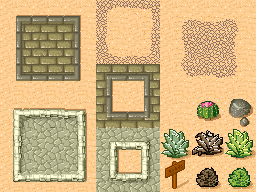
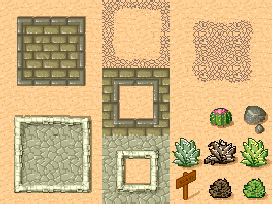
Added tile set expansion to build pipeline, removed antialiasing on tile map

diff --git a/src/app.js b/src/app.js
@@ -33,10 +33,6 @@ var HelloWorldLayer = cc.Layer.extend({
         this.addChild(this.sprite, 0);
         */
         var tileMap = new cc.TMXTiledMap("res/TileGameResources/TileMap.tmx");
-        cc.log(tileMap);
-        for (var i = 0; i < tileMap.getChildren().length; ++i) {
-        	tileMap.getChildren()[i].getTexture().setAntiAliasTexParameters();
-        }
         this.addChild(tileMap,0);
 
         cc.log(tileMap);

diff --git a/build.py b/build.py
@@ -1,5 +1,6 @@
 import re
 import os
+import Image
 
 '''
 Turns a path into a unique variable name
@@ -8,10 +9,40 @@ def PathToVar(path):
 	return '_'.join('_'.join('_'.join(path.split('/')).split('\\')).split('.'))
 
 '''
+Determines if a path is a file that needs preprocessing
+'''
+def IsPreprocessingRequired(path):
+	return re.match(r'.*\.template\..*', path) != None
+
+'''
+Determines if a path is a file that needs tile set expansion
+'''
+def IsTileSetExpansionRequired(path):
+	return re.match(r'.*\.tileset\..*', path) != None
+
+'''
+Determines if a path is an ignored file and should be excluded from resource loading
+'''
+def IsIgnoredFile(path):
+	ignoredFiles = [
+		r'.*loading\.js'
+	]
+	
+	if IsPreprocessingRequired(path) or IsTileSetExpansionRequired(path):
+		return True
+	
+	for pattern in ignoredFiles:
+		if re.match(pattern, path):
+			return True
+	return False
+
+'''
 Makes the environment variables for the preprocessor
 '''
 def GetEnvironmentVariables():
 	env = {}
+	env['preprocess'] = []
+	env['tilesetexpansion'] = []
 	env['resources'] = {}
 	env['sources'] = []
 	
@@ -21,18 +52,28 @@ def GetEnvironmentVariables():
 	
 	for subdir, dirs, files in os.walk(res):
 		for fileName in files:
-			if fileName != 'loading.js':
-				abspath = os.path.relpath(subdir, root) + '/' + fileName
-				if subdir == res:
-					respath = fileName
-				else:
-					respath = os.path.relpath(subdir, res) + '/' + fileName
+			abspath = os.path.relpath(subdir, root) + '/' + fileName
+			if subdir == res:
+				respath = fileName
+			else:
+				respath = os.path.relpath(subdir, res) + '/' + fileName
+			
+			if IsPreprocessingRequired(abspath):
+				env['preprocess'].append(abspath)
+			if IsTileSetExpansionRequired(abspath):
+				env['tilesetexpansion'].append(abspath)
+			if not IsIgnoredFile(abspath):
 				env['resources'][PathToVar(respath)] = abspath
 	
 	for subdir, dirs, files in os.walk(src):
 		for fileName in files:
-			if fileName.find('.template') == -1:
-				env['sources'].append(os.path.relpath(subdir, root) + '/' + fileName)
+			abspath = os.path.relpath(subdir, root) + '/' + fileName
+			if IsPreprocessingRequired(abspath):
+				env['preprocess'].append(abspath)
+			if IsTileSetExpansionRequired(abspath):
+				env['tilesetexpansion'].append(abspath)
+			if not IsIgnoredFile(fileName):
+				env['sources'].append(abspath)
 	
 	return env
 
@@ -75,7 +116,39 @@ def Preprocess(path, env):
 	with open(path.replace('.template', ''), 'w') as output_file:
 		output_file.write(content)
 
+'''
+Expands the tiles in a tile set by 1 pixel on each edge
+'''
+def ExpandTileSet(path):
+	img = Image.open(path)
+	width, height = img.size
+	newWidth, newHeight = (width / 32 * 34, height / 32 * 34)
+	
+	outimg = Image.new('RGBA', (width / 32 * 34, height / 32 * 34))
+	
+	for y in xrange(newHeight):
+		yindex = y % 34
+		if yindex > 0:
+			yindex -= 1
+		if yindex > 31:
+			yindex -= 1
+		for x in xrange(newWidth):
+			xindex = x % 34
+			if xindex > 0:
+				xindex -= 1
+			if xindex > 31:
+				xindex -= 1
+			outimg.putpixel((x, y), img.getpixel((xindex + x // 34 * 32, yindex + y // 34 * 32)))
+	
+	outPath = path.replace('.tileset', '')
+	outimg.save(outPath)
+
 if __name__ == '__main__':
 	env = GetEnvironmentVariables()
-	Preprocess(os.path.join('src', 'resource.template.js'), env)
 	Preprocess('project.template.json', env)
+	
+	for template in env['preprocess']:
+		Preprocess(template, env)
+	
+	for tileset in env['tilesetexpansion']:
+		ExpandTileSet(tileset)
